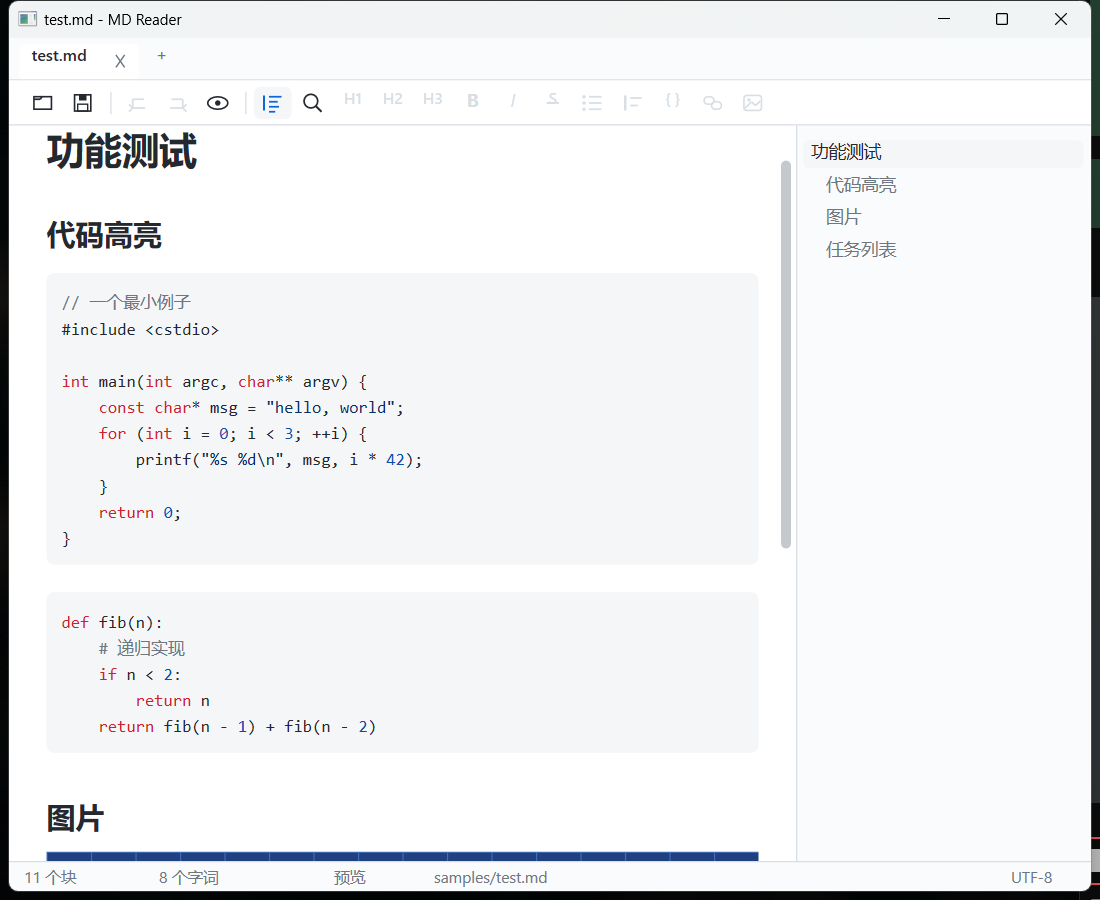
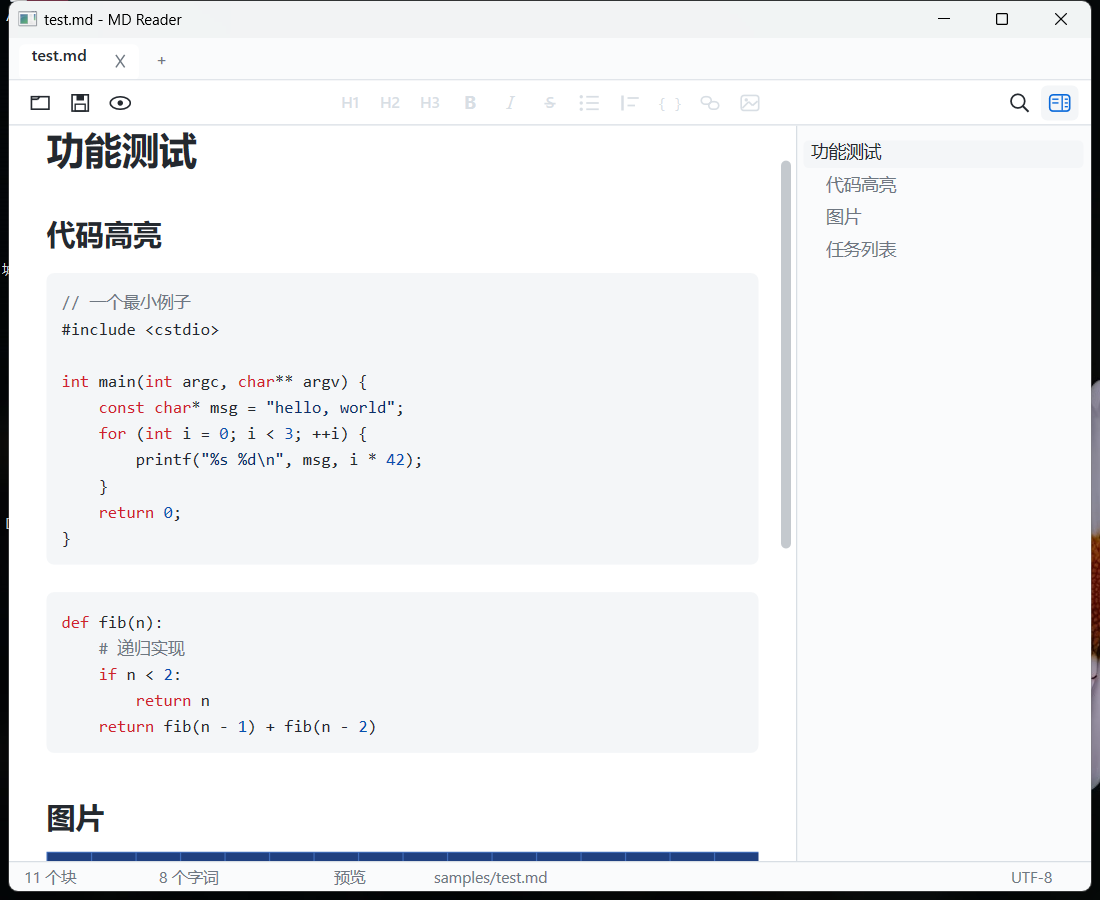
重排工具条，加程序图标
- 工具条分成三组：左侧文件与视图，中间 Markdown 命令（居中排版），右侧查找/大纲
- 去掉撤销/重做按钮（快捷键保留），H1-H3、B、I、S 等字形图标改为垂直居中
- 斜体图标换成衬线字形，代码图标用等宽字，大纲图标换成侧栏样式
- 任务列表复选框与首行文字对齐，列表符号改为右对齐贴着正文
- 新增程序图标：白底圆角 + 黑色线性文件夹，16-256 共 9 个尺寸

diff --git a/src/chrome.cpp b/src/chrome.cpp
@@ -4,24 +4,27 @@
 #include <cmath>
 
 const ToolButton kToolButtons[] = {
-    {ChromeAction::Open, L"打开 (Ctrl+O)", false},
-    {ChromeAction::Save, L"保存 (Ctrl+S)", false},
-    {ChromeAction::Undo, L"撤销 (Ctrl+Z)", true},
-    {ChromeAction::Redo, L"重做 (Ctrl+Y)", true},
-    {ChromeAction::ToggleMode, L"源码/预览 (Ctrl+E)", false},
-    {ChromeAction::Outline, L"大纲 (Ctrl+J)", false},
-    {ChromeAction::Find, L"查找 (Ctrl+F)", false},
-    {ChromeAction::H1, L"一级标题", true},
-    {ChromeAction::H2, L"二级标题", true},
-    {ChromeAction::H3, L"三级标题", true},
-    {ChromeAction::Bold, L"加粗 (Ctrl+B)", true},
-    {ChromeAction::Italic, L"斜体 (Ctrl+I)", true},
-    {ChromeAction::Strike, L"删除线", true},
-    {ChromeAction::List, L"列表", true},
-    {ChromeAction::Quote, L"引用", true},
-    {ChromeAction::Code, L"行内代码", true},
-    {ChromeAction::Link, L"链接 (Ctrl+K)", true},
-    {ChromeAction::Image, L"图片", true},
+    // left: document + view
+    {ChromeAction::Open, L"打开 (Ctrl+O)", false, ToolGroup::Left},
+    {ChromeAction::Save, L"保存 (Ctrl+S)", false, ToolGroup::Left},
+    {ChromeAction::ToggleMode, L"源码/预览 (Ctrl+E)", false, ToolGroup::Left},
+
+    // middle: markdown commands
+    {ChromeAction::H1, L"一级标题", true, ToolGroup::Middle},
+    {ChromeAction::H2, L"二级标题", true, ToolGroup::Middle},
+    {ChromeAction::H3, L"三级标题", true, ToolGroup::Middle},
+    {ChromeAction::Bold, L"加粗 (Ctrl+B)", true, ToolGroup::Middle},
+    {ChromeAction::Italic, L"斜体 (Ctrl+I)", true, ToolGroup::Middle},
+    {ChromeAction::Strike, L"删除线", true, ToolGroup::Middle},
+    {ChromeAction::List, L"列表", true, ToolGroup::Middle},
+    {ChromeAction::Quote, L"引用", true, ToolGroup::Middle},
+    {ChromeAction::Code, L"行内代码", true, ToolGroup::Middle},
+    {ChromeAction::Link, L"链接 (Ctrl+K)", true, ToolGroup::Middle},
+    {ChromeAction::Image, L"图片", true, ToolGroup::Middle},
+
+    // right: panel + search
+    {ChromeAction::Find, L"查找 (Ctrl+F)", false, ToolGroup::Right},
+    {ChromeAction::Outline, L"大纲 (Ctrl+J)", false, ToolGroup::Right},
 };
 const int kToolButtonCount = (int)(sizeof(kToolButtons) / sizeof(kToolButtons[0]));
 
@@ -33,11 +36,6 @@ const float kTabMinW = 96.f;
 const float kBtn = 30.f;
 const float kBtnGap = 2.f;
 const float kGroupGap = 12.f;
-
-bool needsTabSeparator(int index) {
-    ChromeAction a = kToolButtons[index].action;
-    return a == ChromeAction::Undo || a == ChromeAction::Outline;
-}
 
 float tabWidth(App& app, int i) {
     const Tab& t = app.tabs[(size_t)i];
@@ -110,7 +108,7 @@ void drawIcon(App& app, ChromeAction a, D2D1_RECT_F r, ID2D1Brush* fg) {
     case ChromeAction::ToggleMode: {
         bool source = app.hasTab() && app.tab().mode == Mode::Source;
         if (source) {
-            text(L"</>", app.fmtIcon.get());
+            text(L"</>", app.fmtIconMono.get());
         } else {
             // eye
             app.rt->DrawEllipse(D2D1_ELLIPSE{D2D1_POINT_2F{cx, cy}, 8.f, 5.f}, fg, 1.3f);
@@ -119,11 +117,15 @@ void drawIcon(App& app, ChromeAction a, D2D1_RECT_F r, ID2D1Brush* fg) {
         break;
     }
     case ChromeAction::Outline:
-        line(cx - 7.f, cy - 6.f, cx - 7.f, cy + 6.f, 1.6f);
-        line(cx - 3.f, cy - 5.f, cx + 7.f, cy - 5.f);
-        line(cx - 3.f, cy - 1.f, cx + 4.f, cy - 1.f);
-        line(cx - 3.f, cy + 3.f, cx + 5.f, cy + 3.f);
-        line(cx - 3.f, cy + 7.f, cx + 2.f, cy + 7.f);
+        // side panel with a content column
+        app.rt->DrawRoundedRectangle(
+            D2D1_ROUNDED_RECT{rect(cx - 8.f, cy - 6.5f, cx + 8.f, cy + 6.5f), 2.5f, 2.5f}, fg, 1.3f);
+        line(cx + 2.f, cy - 6.f, cx + 2.f, cy + 6.f, 1.1f);
+        line(cx + 4.f, cy - 3.f, cx + 6.5f, cy - 3.f, 1.1f);
+        line(cx + 4.f, cy, cx + 6.5f, cy, 1.1f);
+        line(cx + 4.f, cy + 3.f, cx + 6.5f, cy + 3.f, 1.1f);
+        line(cx - 6.f, cy - 3.f, cx - 1.f, cy - 3.f, 1.1f);
+        line(cx - 6.f, cy, cx - 1.f, cy, 1.1f);
         break;
     case ChromeAction::Find:
         app.rt->DrawEllipse(D2D1_ELLIPSE{D2D1_POINT_2F{cx - 1.5f, cy - 1.5f}, 5.5f, 5.5f}, fg, 1.4f);
@@ -136,7 +138,7 @@ void drawIcon(App& app, ChromeAction a, D2D1_RECT_F r, ID2D1Brush* fg) {
     case ChromeAction::Italic: text(L"I", app.fmtIconItalic.get()); break;
     case ChromeAction::Strike:
         text(L"S", app.fmtIcon.get());
-        line(cx - 5.f, cy, cx + 5.f, cy, 1.5f);
+        line(cx - 4.5f, cy + 0.5f, cx + 4.5f, cy + 0.5f, 1.4f);
         break;
     case ChromeAction::List:
         for (int i = 0; i < 3; ++i) {
@@ -150,7 +152,7 @@ void drawIcon(App& app, ChromeAction a, D2D1_RECT_F r, ID2D1Brush* fg) {
         line(cx - 2.f, cy - 4.f, cx + 7.f, cy - 4.f);
         line(cx - 2.f, cy + 2.f, cx + 4.f, cy + 2.f);
         break;
-    case ChromeAction::Code: text(L"{ }", app.fmtIcon.get()); break;
+    case ChromeAction::Code: text(L"{ }", app.fmtIconMono.get()); break;
     case ChromeAction::Link:
         app.rt->DrawRoundedRectangle(
             D2D1_ROUNDED_RECT{rect(cx - 7.f, cy - 5.f, cx + 1.f, cy + 1.f), 3.f, 3.f}, fg, 1.3f);
@@ -171,6 +173,43 @@ void drawIcon(App& app, ChromeAction a, D2D1_RECT_F r, ID2D1Brush* fg) {
 }
 
 }  // namespace
+
+void toolButtonRects(const App& app, D2D1_RECT_F* out) {
+    float w[3] = {0.f, 0.f, 0.f};
+    for (int i = 0; i < kToolButtonCount; ++i) w[(int)kToolButtons[i].group] += kBtn + kBtnGap;
+    for (auto& v : w) v -= kBtnGap;
+
+    float leftX = 10.f;
+    float rightX = app.vw - 10.f - w[2];
+    float midX = (app.vw - w[1]) * 0.5f;
+    if (midX < leftX + w[0] + 18.f) midX = leftX + w[0] + 18.f;
+    if (midX + w[1] > rightX - 18.f) midX = rightX - 18.f - w[1];
+
+    float cursor[3] = {leftX, midX, rightX};
+    float top = app.tabStripH + (app.toolbarH - kBtn) * 0.5f;
+    for (int i = 0; i < kToolButtonCount; ++i) {
+        int g = (int)kToolButtons[i].group;
+        out[i] = rect(cursor[g], top, cursor[g] + kBtn, top + kBtn);
+        cursor[g] += kBtn + kBtnGap;
+    }
+}
+
+int toolButtonIndexAt(const App& app, float x, float y) {
+    if (y < app.tabStripH || y > app.contentTop()) return -1;
+    D2D1_RECT_F r[kToolButtonCount];
+    toolButtonRects(app, r);
+    for (int i = 0; i < kToolButtonCount; ++i)
+        if (x >= r[i].left - 1.f && x <= r[i].right + 1.f) return i;
+    return -1;
+}
+
+D2D1_RECT_F toolButtonRect(const App& app, int index) {
+    D2D1_RECT_F r[kToolButtonCount];
+    toolButtonRects(app, r);
+    if (index < 0 || index >= kToolButtonCount) return rect(0, 0, 0, 0);
+    return r[index];
+}
+
 
 D2D1_RECT_F tabRect(const App& app, int index) {
     float x = 8.f;
@@ -193,28 +232,6 @@ D2D1_RECT_F newTabRect(const App& app) {
 D2D1_RECT_F closeTabRect(const App& app, int index) {
     D2D1_RECT_F t = tabRect(app, index);
     return rect(t.right - 22.f, t.top + 7.f, t.right - 8.f, t.bottom - 7.f);
-}
-
-int toolButtonIndexAt(const App& app, float x, float y) {
-    if (y < app.tabStripH || y > app.contentTop()) return -1;
-    float bx = 12.f;
-    for (int i = 0; i < kToolButtonCount; ++i) {
-        if (needsTabSeparator(i)) bx += kGroupGap;
-        D2D1_RECT_F r = rect(bx, app.tabStripH + 3.f, bx + kBtn, app.contentTop() - 3.f);
-        if (x >= r.left && x <= r.right) return i;
-        bx += kBtn + kBtnGap;
-    }
-    return -1;
-}
-
-D2D1_RECT_F toolButtonRect(const App& app, int index) {
-    float bx = 12.f;
-    for (int i = 0; i < index; ++i) {
-        if (needsTabSeparator(i)) bx += kGroupGap;
-        bx += kBtn + kBtnGap;
-    }
-    if (needsTabSeparator(index)) bx += kGroupGap;
-    return rect(bx, app.tabStripH + 3.f, bx + kBtn, app.contentTop() - 3.f);
 }
 
 D2D1_RECT_F findBarRect(const App& app) {
@@ -272,30 +289,31 @@ void drawToolbar(App& app) {
                           app.brRule.get());
 
     bool editing = app.hasTab() && app.tab().mode == Mode::Source;
+    D2D1_RECT_F r[kToolButtonCount];
+    toolButtonRects(app, r);
+
     for (int i = 0; i < kToolButtonCount; ++i) {
-        D2D1_RECT_F r = toolButtonRect(app, i);
-        if (needsTabSeparator(i)) {
-            float sx = r.left - kGroupGap * 0.5f - 1.f;
-            app.rt->FillRectangle(rect(sx, r.top + 6.f, sx + 1.f, r.bottom - 6.f), app.brRule.get());
-        }
         bool disabled = kToolButtons[i].needsEditor && !editing;
         bool active = false;
-        if (kToolButtons[i].action == ChromeAction::Outline) active = app.showOutline;
-        if (kToolButtons[i].action == ChromeAction::ToggleMode) active = editing;
-        if (kToolButtons[i].action == ChromeAction::Find) active = app.findOpen;
+        switch (kToolButtons[i].action) {
+        case ChromeAction::Outline: active = app.showOutline; break;
+        case ChromeAction::ToggleMode: active = editing; break;
+        case ChromeAction::Find: active = app.findOpen; break;
+        default: break;
+        }
 
-        if (app.hoverBtn == i && !disabled) {
+        if ((app.hoverBtn == i || active) && !disabled) {
             ComPtr<ID2D1SolidColorBrush> hb;
-            app.rt->CreateSolidColorBrush(app.th.tableHead, hb.put());
-            app.rt->FillRoundedRectangle(D2D1_ROUNDED_RECT{rect(r.left, r.top + 1.f, r.right, r.bottom - 1.f), 5.f, 5.f}, hb.get());
+            app.rt->CreateSolidColorBrush(active ? app.th.tableHead : app.th.panel, hb.put());
+            app.rt->FillRoundedRectangle(
+                D2D1_ROUNDED_RECT{rect(r[i].left, r[i].top + 1.f, r[i].right, r[i].bottom - 1.f), 5.f,
+                                  5.f},
+                hb.get());
         }
-        if (active) {
-            ComPtr<ID2D1SolidColorBrush> ab;
-            app.rt->CreateSolidColorBrush(app.th.tableHead, ab.put());
-            app.rt->FillRoundedRectangle(D2D1_ROUNDED_RECT{rect(r.left, r.top + 2.f, r.right, r.bottom - 2.f), 5.f, 5.f}, ab.get());
-        }
-        ID2D1Brush* fg = disabled ? app.brRule.get() : (active ? app.brAccent.get() : app.brText.get());
-        drawIcon(app, kToolButtons[i].action, rect(r.left + 4.f, r.top + 4.f, r.right - 4.f, r.bottom - 4.f), fg);
+        ID2D1Brush* fg =
+            disabled ? app.brRule.get() : (active ? app.brAccent.get() : app.brText.get());
+        drawIcon(app, kToolButtons[i].action,
+                 rect(r[i].left + 5.f, r[i].top + 5.f, r[i].right - 5.f, r[i].bottom - 5.f), fg);
     }
 }
 

diff --git a/src/graphics.cpp b/src/graphics.cpp
@@ -32,8 +32,8 @@ void drawMarker(App& app, const Item& it) {
 
     if (it.marker == L"[]") {
         float s = 11.f;
-        float x = it.x - 19.f;
-        float y = it.y + 5.f;
+        float x = it.x - 21.f;
+        float y = it.y + 7.5f;
         D2D1_RECT_F box = rect(x, y, x + s, y + s);
         app.rt->DrawRoundedRectangle(D2D1_ROUNDED_RECT{box, 2.5f, 2.5f}, app.brMuted.get(), 1.2f);
         if (app.hasTab()) {
@@ -50,8 +50,8 @@ void drawMarker(App& app, const Item& it) {
         return;
     }
 
-    D2D1_RECT_F rc = rect(it.x - 30.f, it.y - 1.f, it.x - 4.f, it.y + m.height);
-    IDWriteTextFormat* fmt = it.markerRight ? app.fmtMarkerRight.get() : app.fmtMarker.get();
+    D2D1_RECT_F rc = rect(it.x - 26.f, it.y, it.x - 7.f, it.y + m.height);
+    IDWriteTextFormat* fmt = app.fmtMarkerRight.get();
     app.rt->DrawText(it.marker.c_str(), (UINT32)it.marker.size(), fmt, rc, app.brMuted.get(),
                      D2D1_DRAW_TEXT_OPTIONS_CLIP);
 }
@@ -158,6 +158,7 @@ bool initGraphics(App& app) {
     app.fmtBtn = makeFormat(app, L"Segoe UI", 13.5f, DWRITE_FONT_WEIGHT_NORMAL, 1.4f);
     if (app.fmtBtn) {
         app.fmtBtn->SetTextAlignment(DWRITE_TEXT_ALIGNMENT_CENTER);
+        app.fmtBtn->SetParagraphAlignment(DWRITE_PARAGRAPH_ALIGNMENT_CENTER);
         app.fmtBtn->SetWordWrapping(DWRITE_WORD_WRAPPING_NO_WRAP);
     }
     app.fmtTab = makeFormat(app, L"Segoe UI", 13.f, DWRITE_FONT_WEIGHT_NORMAL, 1.35f);
@@ -172,20 +173,30 @@ bool initGraphics(App& app) {
     app.fmtIcon = makeFormat(app, L"Segoe UI", 12.5f, DWRITE_FONT_WEIGHT_SEMI_BOLD, 1.2f);
     if (app.fmtIcon) {
         app.fmtIcon->SetTextAlignment(DWRITE_TEXT_ALIGNMENT_CENTER);
+        app.fmtIcon->SetParagraphAlignment(DWRITE_PARAGRAPH_ALIGNMENT_CENTER);
         app.fmtIcon->SetWordWrapping(DWRITE_WORD_WRAPPING_NO_WRAP);
     }
     app.fmtIconBold = makeFormat(app, L"Segoe UI", 15.f, DWRITE_FONT_WEIGHT_BOLD, 1.2f);
     if (app.fmtIconBold) {
         app.fmtIconBold->SetTextAlignment(DWRITE_TEXT_ALIGNMENT_CENTER);
+        app.fmtIconBold->SetParagraphAlignment(DWRITE_PARAGRAPH_ALIGNMENT_CENTER);
         app.fmtIconBold->SetWordWrapping(DWRITE_WORD_WRAPPING_NO_WRAP);
+    }
+    app.fmtIconMono = makeFormat(app, L"Consolas", 11.5f, DWRITE_FONT_WEIGHT_NORMAL, 1.2f);
+    if (app.fmtIconMono) {
+        app.fmtIconMono->SetTextAlignment(DWRITE_TEXT_ALIGNMENT_CENTER);
+        app.fmtIconMono->SetParagraphAlignment(DWRITE_PARAGRAPH_ALIGNMENT_CENTER);
+        app.fmtIconMono->SetWordWrapping(DWRITE_WORD_WRAPPING_NO_WRAP);
     }
     {
         ComPtr<IDWriteTextFormat> f;
-        if (SUCCEEDED(app.dwrite->CreateTextFormat(L"Segoe UI", nullptr, DWRITE_FONT_WEIGHT_NORMAL,
+        if (SUCCEEDED(app.dwrite->CreateTextFormat(L"Times New Roman", nullptr,
+                                                   DWRITE_FONT_WEIGHT_NORMAL,
                                                    DWRITE_FONT_STYLE_ITALIC,
-                                                   DWRITE_FONT_STRETCH_NORMAL, 15.f, L"",
+                                                   DWRITE_FONT_STRETCH_NORMAL, 16.f, L"",
                                                    f.put()))) {
             f->SetTextAlignment(DWRITE_TEXT_ALIGNMENT_CENTER);
+            f->SetParagraphAlignment(DWRITE_PARAGRAPH_ALIGNMENT_CENTER);
             f->SetWordWrapping(DWRITE_WORD_WRAPPING_NO_WRAP);
             f->SetLineSpacing(DWRITE_LINE_SPACING_METHOD_UNIFORM, 18.f, 14.f);
             app.fmtIconItalic = std::move(f);

diff --git a/src/chrome.h b/src/chrome.h
@@ -35,10 +35,13 @@ struct ChromeHit {
     int button = -1; // toolbar button index
 };
 
+enum class ToolGroup { Left, Middle, Right };
+
 struct ToolButton {
     ChromeAction action;
     const wchar_t* tip;
     bool needsEditor;
+    ToolGroup group;
 };
 
 extern const ToolButton kToolButtons[];
@@ -47,6 +50,7 @@ extern const int kToolButtonCount;
 void drawChrome(App& app);          // tab strip, toolbar, find bar, status bar
 ChromeHit chromeHitTest(App& app, float x, float y);
 D2D1_RECT_F toolButtonRect(const App& app, int index);
+void toolButtonRects(const App& app, D2D1_RECT_F* out);
 int toolButtonIndexAt(const App& app, float x, float y);
 D2D1_RECT_F tabRect(const App& app, int index);
 D2D1_RECT_F newTabRect(const App& app);

diff --git a/src/app.h b/src/app.h
@@ -22,7 +22,7 @@ struct App {
 
     ComPtr<IDWriteTextFormat> fmtBody, fmtQuote, fmtCode, fmtTable, fmtTableHead,
         fmtMarker, fmtMarkerRight, fmtToc, fmtBtn, fmtTab, fmtTabActive, fmtSource,
-        fmtStatus, fmtIcon, fmtIconBold, fmtIconItalic, fmtHead[6];
+        fmtStatus, fmtIcon, fmtIconBold, fmtIconItalic, fmtIconMono, fmtHead[6];
 
     float codeSpanSize = 14.f;
 

diff --git a/README.md b/README.md
@@ -2,9 +2,11 @@
 
 Windows 上的极简 Markdown 阅读器 / 编辑器。Win32 + Direct2D + DirectWrite + md4c，C++20，无框架。单文件 1.4 MB，静态链接，不依赖 VC 运行库。
 
+<img src="docs/icon.png" width="72" align="right">
+
 ![screenshot](docs/screenshot.png)
 
-界面按记事本的样子排：标签栏 / 图标工具条 / 正文 / 状态栏。
+界面按记事本的样子排：标签栏 / 图标工具条 / 正文 / 状态栏。工具条左组是文件与视图（打开、保存、源码/预览），中组是 Markdown 命令（H1–H3、加粗、斜体、删除线、列表、引用、行内代码、链接、图片），右组是查找和大纲。图标全部用 Direct2D 图元自绘，不依赖图标字体，也不占二进制体积。
 
 源码模式（可编辑，`Ctrl+E` 切换）：
 
@@ -57,7 +59,8 @@ mdreader.exe --register | --unregister     写入/删除文件关联（HKCU）
 - 图片：本地相对路径，WIC 后台线程解码，解码完成自动回流排版
 - 标签页：新建 / 切换 / 关闭，脏标记，关闭前提示保存
 - 源码编辑：光标、选区（鼠标/Shift）、中文 IME（输入法窗口跟随光标）、撤销（400 ms 内合并）、Ctrl+S 保存
-- 工具条：打开、保存、撤销、重做、源码/预览、大纲、查找、H1–H3、B、I、S、列表、引用、行内代码、链接、图片（图标是自绘的，不依赖图标字体和图片资源）
+- 工具条：左组 打开/保存/源码预览，中组 H1–H3/B/I/S/列表/引用/代码/链接/图片，右组 查找/大纲
+- 程序图标：白底圆角 + 黑色线性文件夹，9 个尺寸（16–256）打进 exe
 - 大纲面板：层级缩进、当前章节高亮、点击跳转、滚轮独立滚动
 - 查找：源码模式按字符定位，预览模式跳到匹配块；显示 `n / 总数`
 - 状态栏：行/列、字符数或字词数、模式、路径、编码
@@ -69,8 +72,8 @@ Windows 11 23H2，2048×1152 @125%：
 
 | 项目 | 数值 |
 | --- | --- |
-| 二进制体积 | 1,456,640 字节 |
-| zip 压缩后 | ~430 KB |
+| 二进制体积 | 1,470,000 字节（含图标） |
+| zip 压缩后 | ~440 KB |
 | 窗口可见 | 47–78 ms |
 | 首帧内容 | ~100 ms |
 | 小文档内存 | ~42 MB 工作集 |
